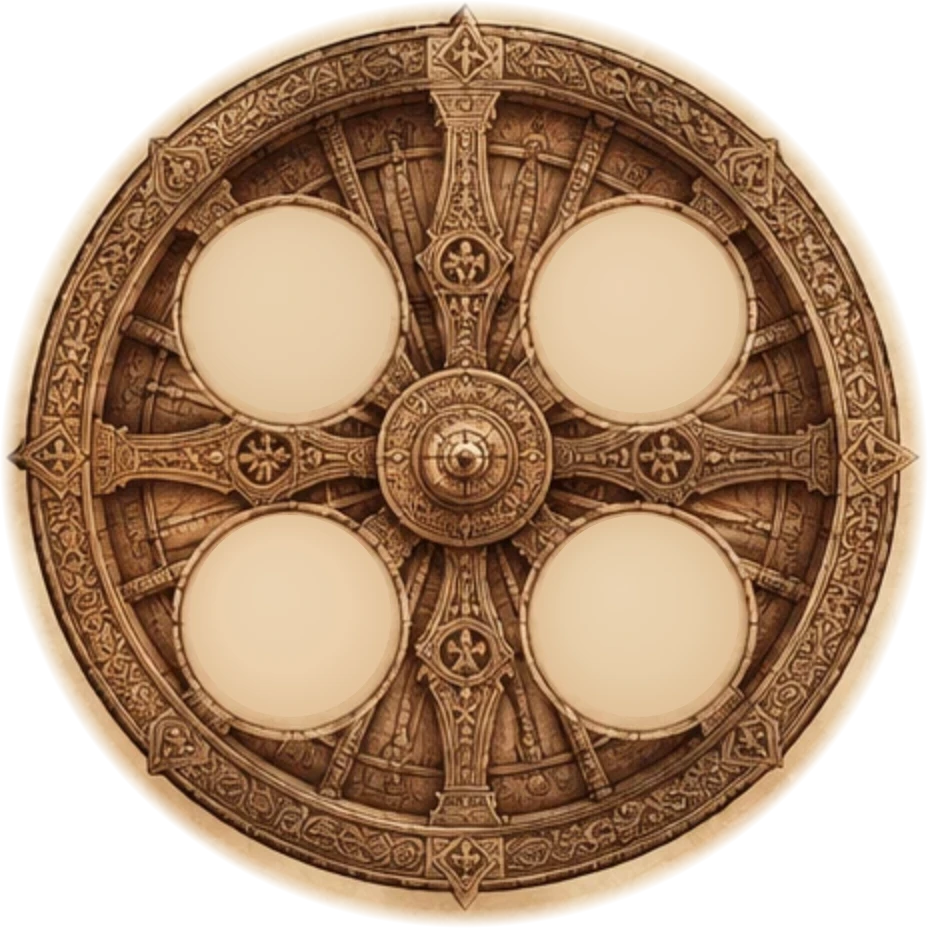
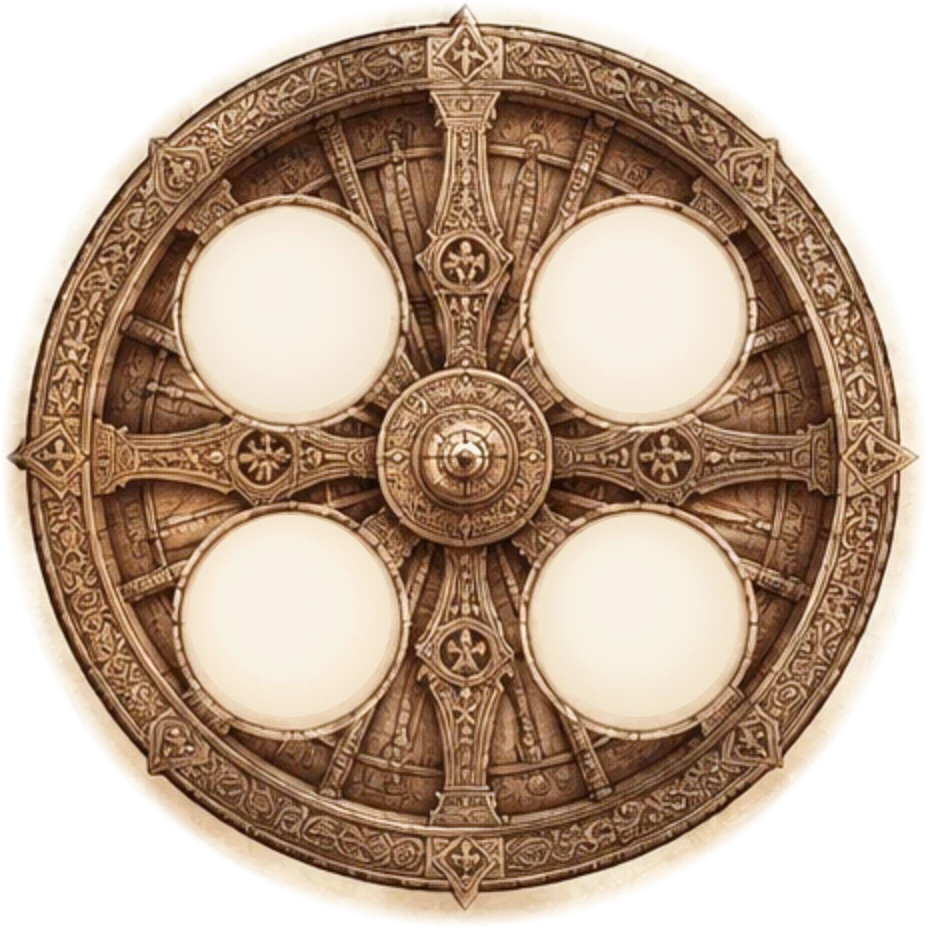
Countdown on the couple section cream
Background #F8F2E5 like the couple card; the paper inside the wheel,
temple and banana artwork is recoloured to the same cream so no beige
patches show.

diff --git a/src/components/sections/Countdown.tsx b/src/components/sections/Countdown.tsx
@@ -8,8 +8,8 @@ import { dateKey, formatVenueDate, parseVenueDateTime, venueDateKey, venueInstan
 import { Pending } from "@/components/ui/Pending";
 
 const DAY = 86_400_000;
-// The aged paper of the artwork, so the cut-outs melt into the page.
-const PAPER = "#EBD5B4";
+// The couple card cream; the artwork paper is recoloured to match.
+const PAPER = "#F8F2E5";
 const RED = "#9B2226";
 const BROWN = "#6E4A2A";
 const RULE = "#A0764A";
@@ -166,8 +166,6 @@ function CountdownSection({ parts }: { parts: VenueDateTime | null }) {
       className="relative overflow-hidden text-center"
       style={{ backgroundColor: PAPER, color: BROWN }}
     >
-      {/* Soft age at the edges of the paper */}
-      <div aria-hidden className="pointer-events-none absolute inset-0" style={{ background: "radial-gradient(120% 90% at 50% 45%, transparent 60%, rgb(140 95 45 / 0.16))" }} />
 
       {/* Banana leaves and temple bells at the top corners */}
       {[false, true].map((mirror) => (

diff --git a/README.md b/README.md
@@ -87,7 +87,7 @@ Each section has its own entrance. All of them respect *reduced motion*.
 | Opening | The carved temple gate (`public/art/temple-door.webp`, Lakshmi above) in warm light, a golden fingertip tapping its brass lock above TAP TO OPEN. A tap, or 5 s of nothing, opens it (once): the doors part onto a dark doorway with light deep inside, hundreds of golden motes (one canvas, `opening/GoldDust.tsx`) and delicate rays pour out; the gate fades and is removed; on deep black Mahaprabhu Jagannath (`jagannath-darshan.webp`, sunburst masked away) emerges slowly through the motes in a soft halo; petals fall during the darshan; he dissolves into motes in his own shape, which swirl into a ring that settles onto the invitation's rangoli. Skip / Esc; a sound button plays the sankha |
 | Invitation | The illustrated invitation card (`public/art/invitation-card.jpg`) fits one screen; its plain middle band repeats so it fills any height undistorted. Bold EB Garamond text — the opening line in exactly two lines sized to the width, the names stacked (first / & / second) in Great Vibes, the date and place — is centred between the deities and a colourful filled jhoti rangoli between the banana trees, shrinking just enough to fit (down to 72%, then the card scrolls). The rangoli builds ring by ring and breathes above a bold "Tap the rangoli" on a cream pill; a tap spins its petals into a golden wash that fades into the couple (once only) |
 | Couple | The couple card (`public/art/couple-card.jpg`: carved arch in a red-and-gold border, cream matched to the invitation) fills one screen. Spread evenly inside it: a gold Ganesha, || Om Ganeshaya Namah ||, the guest greeted by name, the names stacked in Great Vibes rising in one after another, the hashtag between gold rules, and a quote under a small lotus; the illustrated couple seated at the sacred fire (`public/art/couple-havan.png`) is centred at the bottom |
-| Countdown | The Cosmic Wheel, after the couple's reference design: on aged paper, banana leaves and temple bells at the top corners; ଶୁଭ ବିବାହ, "The countdown to our Forever Begins"; the carved Konark wheel (`public/art/konark-wheel.webp`, cut from the reference with its clock faces left blank) turns a quarter-turn into place, its four faces counting days, hours, mins and secs; the date as DD · MM · YYYY; the Sun Temple chariot among banana leaves at the foot (`konark-temple.webp`, `banana-bell.webp`) |
+| Countdown | The Cosmic Wheel, after the couple's reference design: on the couple card's cream (the artwork's paper recoloured to match), banana leaves and temple bells at the top corners; ଶୁଭ ବିବାହ, "The countdown to our Forever Begins"; the carved Konark wheel (`public/art/konark-wheel.webp`, cut from the reference with its clock faces left blank) turns a quarter-turn into place, its four faces counting days, hours, mins and secs; the date as DD · MM · YYYY; the Sun Temple chariot among banana leaves at the foot (`konark-temple.webp`, `banana-bell.webp`) |
 | Our Story | On Tusser-silk cream like an unrolled scroll, a shimmering silver Tarakasi filigree vine grows with the scroll; chapters alternate either side, each marked by a Pattachitra icon (interlocking peacocks, Koka lotus, pana-gua on a brass plate) |
 | Events | Cards dealt in with a 3D tilt; details in a bottom sheet (placed just before the family) |
 | Family | Gurujana Pranam & Blessings on deep crimson: Aja & Aai (flanked by two flickering dipas), Pitra-Matra Pranam and Suhuda-Varga in gold-bordered blocks, the two lineages meeting below; a dipa beside departed elders |
